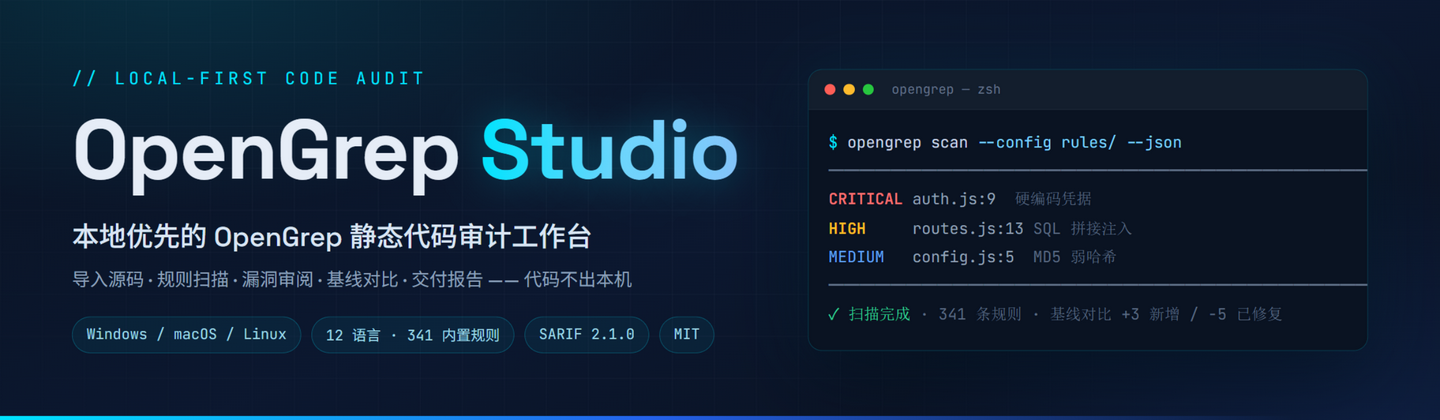
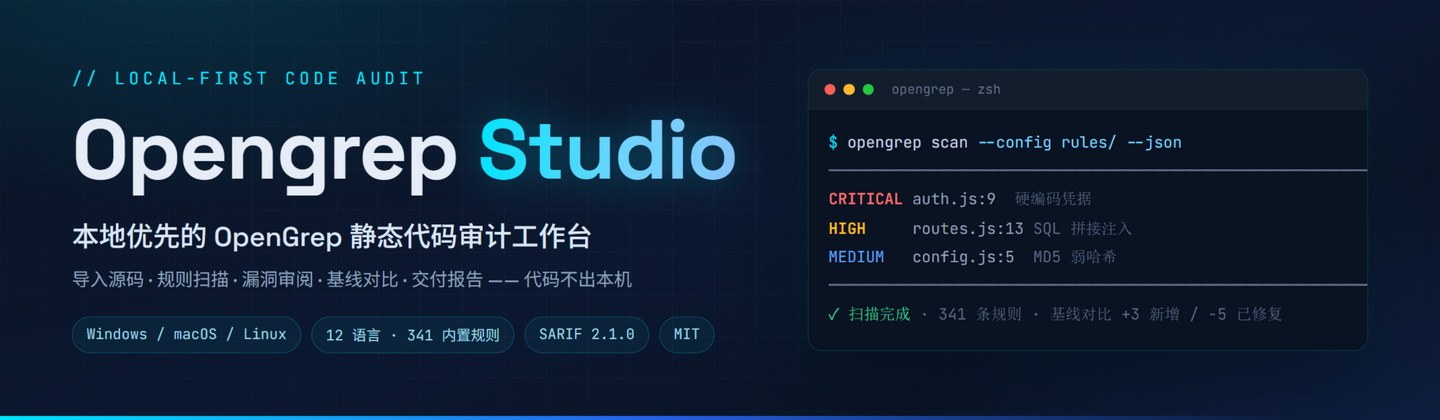
chore: 品牌名统一为 Opengrep（小写 g），版本徽章统一小写 v
- README.md / README.en.md：正文与标题的 OpenGrep → Opengrep（仓库 URL 不变）
- 登录页版本徽章 V0.1.0 → v0.1.0
- 重新生成 banner / social-preview / login 三张素材图

Changed region(s): [[0.1875, 0.2786, 0.5312, 0.4643]]

diff --git a/code/src/pages/Login/LoginPage.tsx b/code/src/pages/Login/LoginPage.tsx
@@ -180,7 +180,7 @@ export default function LoginPage() {
             <div>
               <div className="brand-name-row">
                 <div className="brand-name">Opengrep Studio</div>
-                <span className="ver-badge">V{__APP_VERSION__}</span>
+                <span className="ver-badge">v{__APP_VERSION__}</span>
               </div>
               <div className="brand-tagline" style={{ fontSize: '20px' }}>
                 码审工作台

diff --git a/README.md b/README.md
@@ -1,8 +1,8 @@
 <div align="center">
-<img src="docs/images/banner.png" alt="OpenGrep Studio Banner" width="880"/>
-<h1>OpenGrep Studio · 码审工作台</h1>
+<img src="docs/images/banner.png" alt="Opengrep Studio Banner" width="880"/>
+<h1>Opengrep Studio · 码审工作台</h1>
 <p><strong>让隐患，先于攻击者现形。</strong></p>
-<p>本地优先的 <a href="https://github.com/opengrep/opengrep">OpenGrep</a> 静态代码审计工作台——上传源码、规则扫描、逐条审阅、基线对比、交付报告，<strong>代码不出本机</strong>。</p>
+<p>本地优先的 <a href="https://github.com/opengrep/opengrep">Opengrep</a> 静态代码审计工作台——上传源码、规则扫描、逐条审阅、基线对比、交付报告，<strong>代码不出本机</strong>。</p>
 <p><a href="./README.en.md">English</a> · <a href="#快速开始">快速开始</a> · <a href="#功能亮点">功能亮点</a> · <a href="#安全模型">安全模型</a> · <a href="#常见问题">常见问题</a></p>
 <p>
 <a href="https://github.com/Lyfxxk/OpenGrep-Studio/actions/workflows/ci.yml"><img src="https://img.shields.io/github/actions/workflow/status/Lyfxxk/OpenGrep-Studio/ci.yml?branch=main&label=CI&style=flat-square" alt="CI"/></a>
@@ -19,7 +19,7 @@
 
 ## 为什么需要 Opengrep Studio
 
-OpenGrep（社区从 Semgrep OSS 延续的静态分析引擎）规则生态强大，但直接用命令行做一次完整审计，你会遇到四道坎：
+Opengrep（社区从 Semgrep OSS 延续的静态分析引擎）规则生态强大，但直接用命令行做一次完整审计，你会遇到四道坎：
 
 - **输出是给人看的 JSON，不是给审计流程用的**——命中了哪些规则、严重程度如何，全靠肉眼翻终端输出；
 - **规则消息是英文的**，团队里不是每个人都能一眼看懂 "tainted data flowing into eval" 意味着什么；
@@ -185,7 +185,7 @@ flowchart LR
 
 <details>
 <summary><b>和 Semgrep 是什么关系？</b></summary>
-<p>OpenGrep 是社区从 Semgrep OSS 延续出的开源引擎（LGPL-2.1），Studio 编排其官方二进制，规则精选自 opengrep-rules。Studio 与 Semgrep Inc. 无关联。</p>
+<p>Opengrep 是社区从 Semgrep OSS 延续出的开源引擎（LGPL-2.1），Studio 编排其官方二进制，规则精选自 opengrep-rules。Studio 与 Semgrep Inc. 无关联。</p>
 </details>
 
 <details>

diff --git a/README.en.md b/README.en.md
@@ -1,8 +1,8 @@
 <div align="center">
-<img src="docs/images/banner.png" alt="OpenGrep Studio Banner" width="880"/>
-<h1>OpenGrep Studio</h1>
+<img src="docs/images/banner.png" alt="Opengrep Studio Banner" width="880"/>
+<h1>Opengrep Studio</h1>
 <p><strong>Find weaknesses before attackers do.</strong></p>
-<p>A local-first code-audit workbench on top of <a href="https://github.com/opengrep/opengrep">OpenGrep</a>: import source, scan with rules, triage findings, diff against a baseline, and ship a report — <strong>your code never leaves your machine</strong>.</p>
+<p>A local-first code-audit workbench on top of <a href="https://github.com/opengrep/opengrep">Opengrep</a>: import source, scan with rules, triage findings, diff against a baseline, and ship a report — <strong>your code never leaves your machine</strong>.</p>
 <p><a href="./README.md">简体中文</a> · <a href="#quick-start">Quick Start</a> · <a href="#highlights">Highlights</a> · <a href="#security-model">Security Model</a></p>
 <p>
 <a href="https://github.com/Lyfxxk/OpenGrep-Studio/actions/workflows/ci.yml"><img src="https://img.shields.io/github/actions/workflow/status/Lyfxxk/OpenGrep-Studio/ci.yml?branch=main&label=CI&style=flat-square" alt="CI"/></a>
@@ -19,7 +19,7 @@
 
 ## Why
 
-The OpenGrep engine (the community continuation of Semgrep OSS) is powerful, but driving a real audit from a CLI means: reading raw JSON in a terminal, English-only rule messages, no baseline concept (which findings are new? which were fixed?), and hand-assembled reports. OpenGrep Studio orchestrates the local engine binary and turns scan output into a reviewable, comparable, deliverable audit workflow. The analysis power belongs to the upstream engine — Studio is the workflow around it.
+The Opengrep engine (the community continuation of Semgrep OSS) is powerful, but driving a real audit from a CLI means: reading raw JSON in a terminal, English-only rule messages, no baseline concept (which findings are new? which were fixed?), and hand-assembled reports. Opengrep Studio orchestrates the local engine binary and turns scan output into a reviewable, comparable, deliverable audit workflow. The analysis power belongs to the upstream engine — Studio is the workflow around it.
 
 ## Highlights
 
